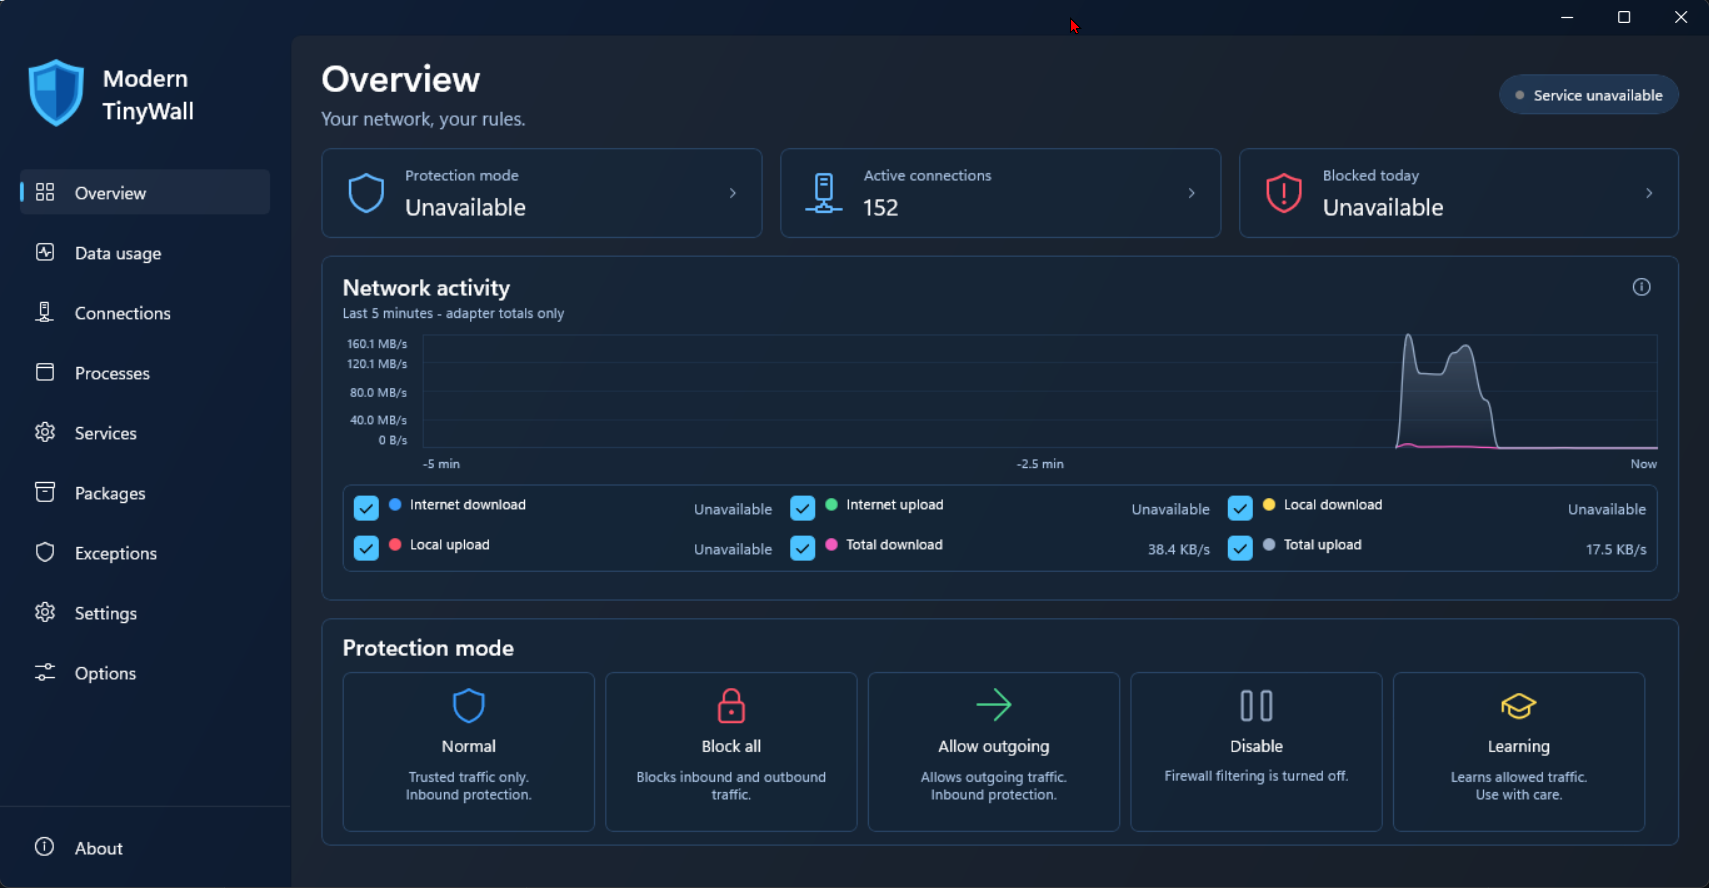
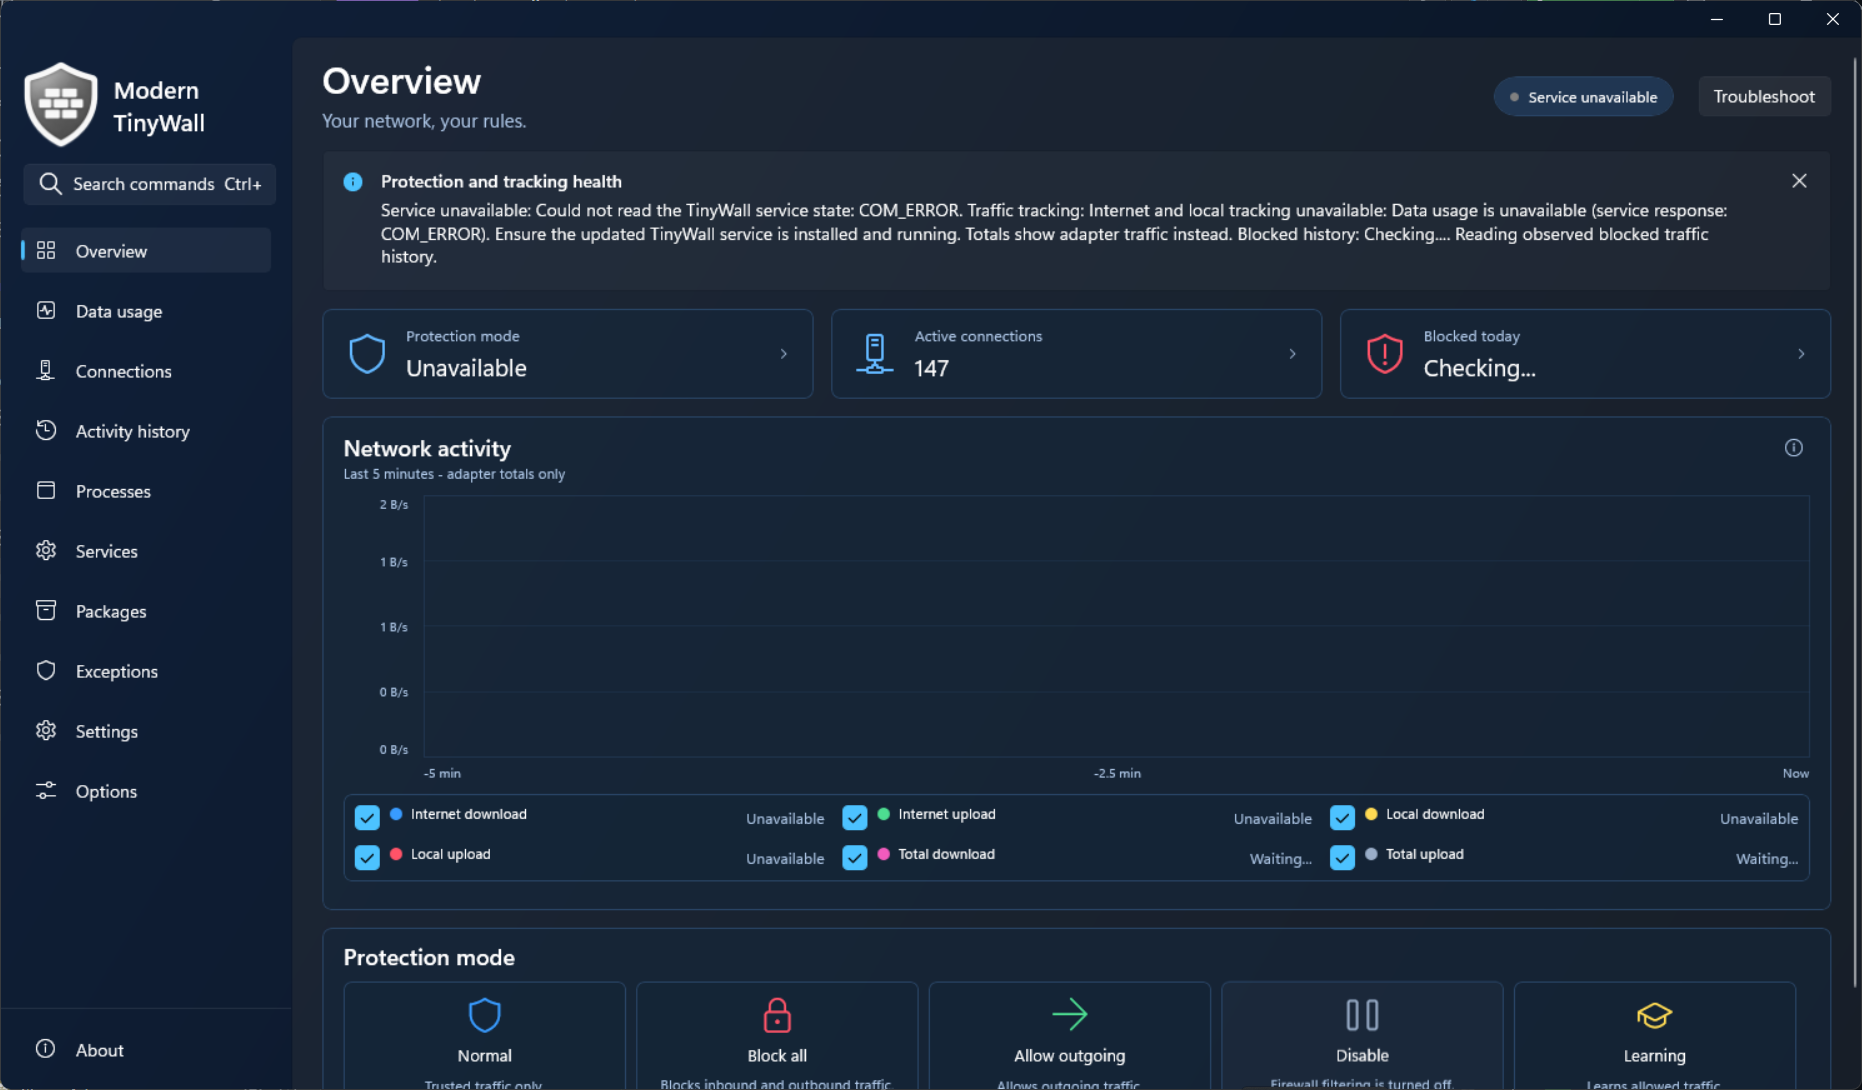
Refresh README screenshots

diff --git a/README.md b/README.md
@@ -10,9 +10,11 @@
 
 # TinyWall / Modern TinyWall
 
-Modern TinyWall is version **4.7.23**; legacy TinyWall and the repository's shared libraries retain version **4.7.8**. Each project keeps its own version. The Modern TinyWall version determines the release archives, MSI ProductVersion and GitHub tag when `master` builds pass.
+Modern TinyWall is version **4.7.24**; legacy TinyWall and the repository's shared libraries retain version **4.7.8**. Each project keeps its own version. The Modern TinyWall version determines the release archives, MSI ProductVersion and GitHub tag when `master` builds pass.
 
-> Screenshots are temporarily omitted while the gallery is refreshed. The existing images in `Docs` predate the latest application-view changes and are not embedded here.
+![Modern TinyWall Overview showing protection status, traffic activity and protection modes](Docs/modern-tinywall-overview.png)
+
+*These screenshots show Modern TinyWall without a connected TinyWall service. Service-backed data is therefore unavailable; the Processes, Services and Packages captures use search filters with no matches.*
 
 ## What's new in Modern TinyWall
 
@@ -41,7 +43,27 @@ Modern TinyWall is version **4.7.23**; legacy TinyWall and the repository's shar
 
 ### Application views
 
-The **Processes** and **Services** views let you find running applications and Windows services by name or path. The **Packages** view lists discovered Microsoft Store packages and their publishers and security identifiers. Updated application-only screenshots will be added when suitable captures are available.
+The **Processes** and **Services** views let you find running applications and Windows services by name or path. The **Packages** view lists discovered Microsoft Store packages and their publishers and security identifiers.
+
+| Data usage | Connections |
+|:--:|:--:|
+| <img src="Docs/modern-tinywall-data-usage.png" width="720" alt="Data usage view with period selector, export control and an empty table because the service is unavailable"> | <img src="Docs/modern-tinywall-connections.png" width="720" alt="Connections view with active, listening and blocked filters"> |
+
+| Activity history | Processes |
+|:--:|:--:|
+| <img src="Docs/modern-tinywall-activity-history.png" width="720" alt="Activity history view with local-history notice and filtering controls"> | <img src="Docs/modern-tinywall-processes.png" width="720" alt="Processes view filtered to a query with no matching processes"> |
+
+| Services | Packages |
+|:--:|:--:|
+| <img src="Docs/modern-tinywall-services.png" width="720" alt="Services view filtered to a query with no matching services"> | <img src="Docs/modern-tinywall-packages.png" width="720" alt="Packages view filtered to a query with no matching packages"> |
+
+| Exceptions | Settings |
+|:--:|:--:|
+| <img src="Docs/modern-tinywall-exceptions.png" width="720" alt="Exceptions view with type, policy, age and tag filters"> | <img src="Docs/modern-tinywall-settings.png" width="720" alt="Settings view with general and machine settings; service values are unavailable"> |
+
+| Options |
+|:--:|
+| <img src="Docs/modern-tinywall-options.png" width="720" alt="Options view with tray, Overview card and connection-history preferences"> |
 
 The TinyWall service is still required for firewall control and classified traffic tracking. Without it, the dashboard clearly reports unavailable service data and labels total rates as adapter traffic.
 
